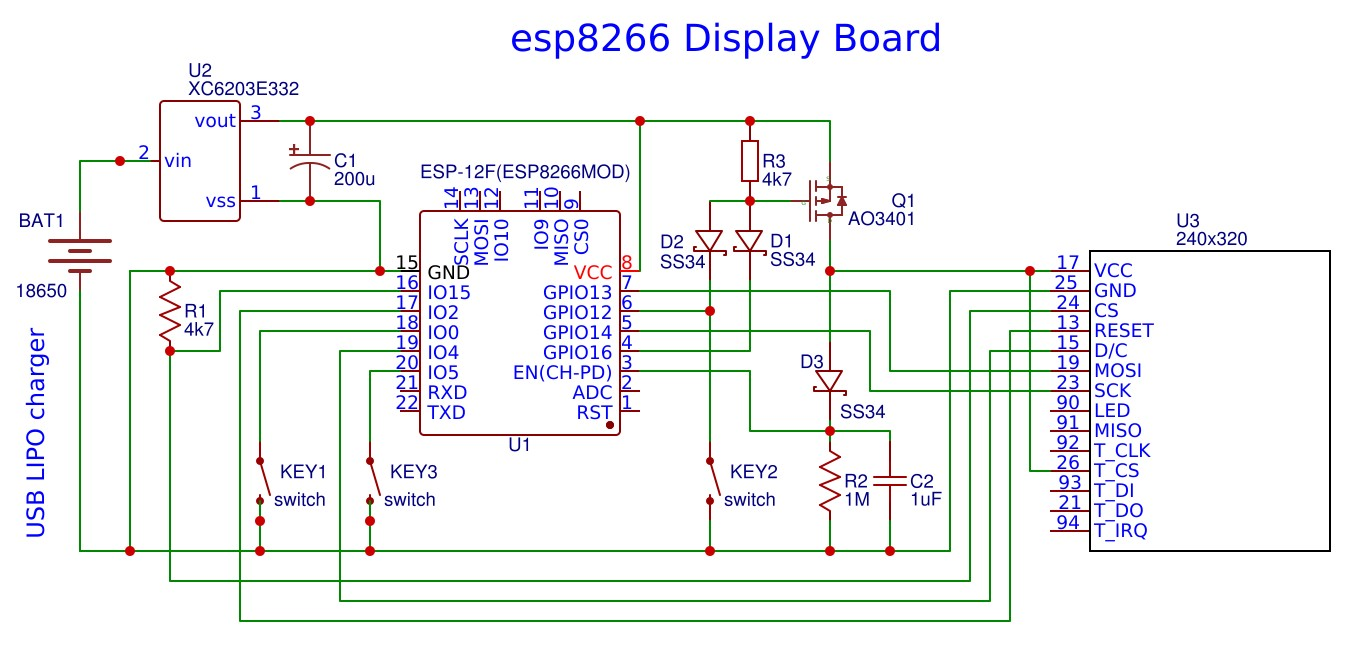
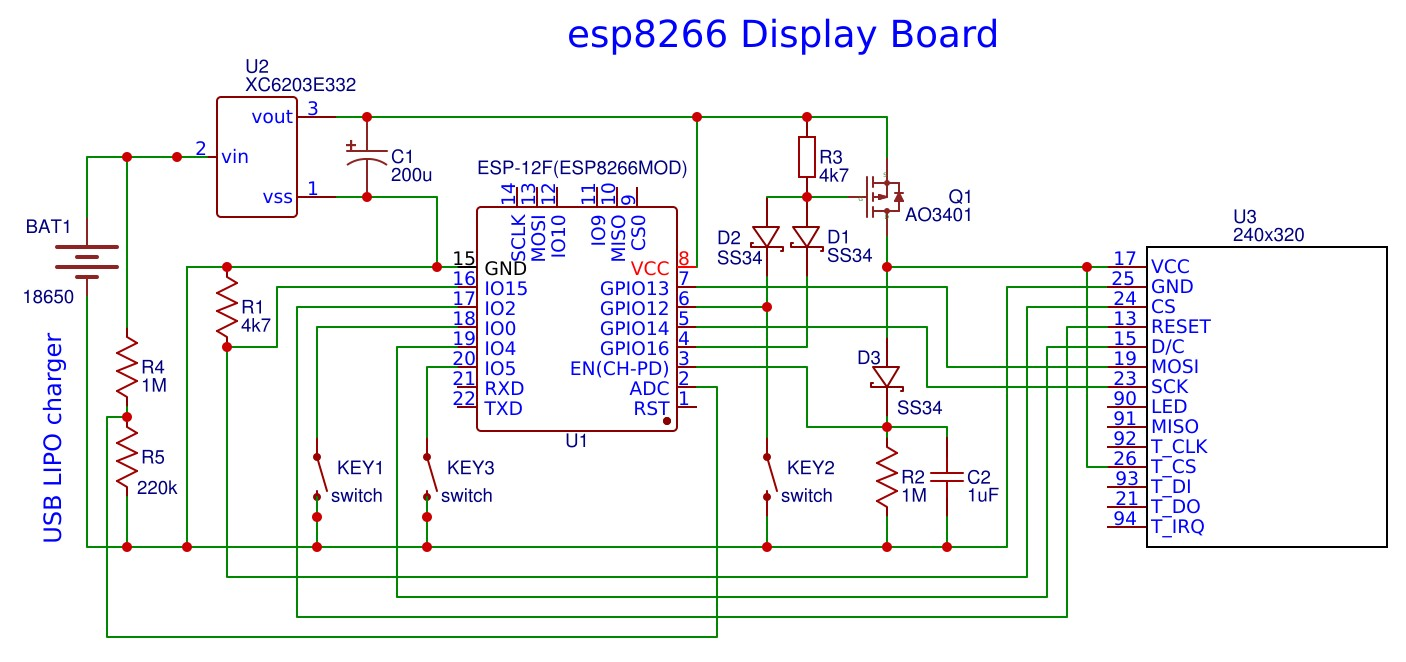
Better response to buttons; Battery + IP address display;Multiple stations

Changed region(s): [[0.0, 0.0923, 0.9882, 0.9846], [0.3706, 0.0308, 0.7103, 0.0923]]

diff --git a/README.md b/README.md
@@ -22,9 +22,9 @@ Construction details will appear at instructables shortly
 - TFT_eSPI can be loaded from Arduino library manager
 - Modify following in User_Setup.h in TFT_esp library to reflect actual pin usage
 
-#define TFT_CS   PIN_D8  // Chip select control pin D8
-#define TFT_DC   PIN_D2  // Data Command control pin
-#define TFT_RST  PIN_D4  // Reset pin (could connect to NodeMCU RST, see next line)
+- #define TFT_CS   PIN_D8  // Chip select control pin D8
+- #define TFT_DC   PIN_D2  // Data Command control pin
+- #define TFT_RST  PIN_D4  // Reset pin (could connect to NodeMCU RST, see next line)
 
 
 ## Set up
@@ -41,12 +41,14 @@ Construction details will appear at instructables shortly
 - Ipload the files in data folder using http:ip/upload
 - Further file access can use http:ip/edit
 - For software updating export a binary and then access http:/ip/firmware
+- Note tha thte site fingerprint for https access may change if the security certificate of the National rail site is renewed. This can be seen in a browser and used to update the config file.
 
 ## Usage
 - Middle button is used to turn unit on. It will automatically get current times and refresh at the specified interval
 - It will sleep automatically after the configured time if enabled
 - Sleep may be manually forced by a long press of the middle button
-- If there are more listings than the display size then the top and bottom buttons will page through the screens.
+- If there are more listings than the display size then a short press of the top and bottom buttons will page up and down through the screens.
+- Multiple station and destination codes (up to 4) may be put in the config file (comma separated). A long press of the top bottom will cycle through these combinations.
 
 ## Links
 Instructables https://www.instructables.com/id/UK-Train-Display/
